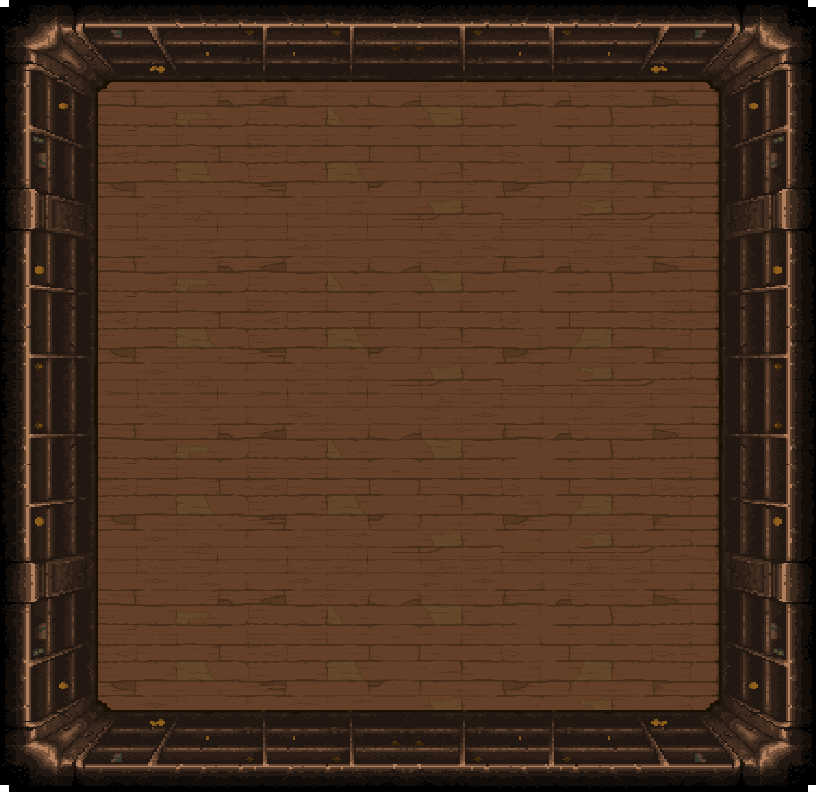
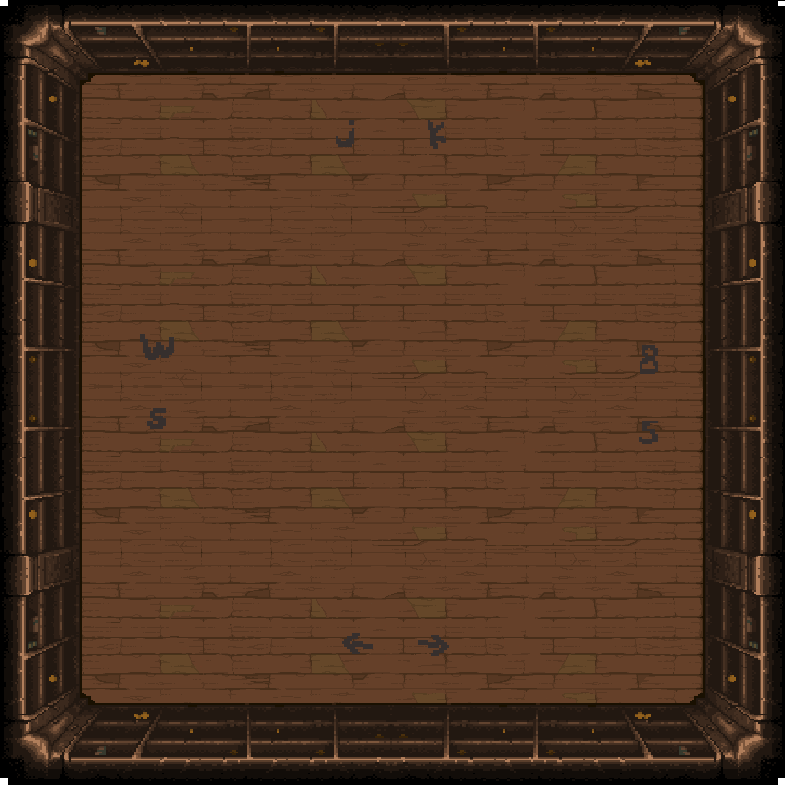
add : move button and design

diff --git a/frontend/src/routes/pong/multiplayer/game/script.js b/frontend/src/routes/pong/multiplayer/game/script.js
@@ -10,6 +10,9 @@ const backgroundCtx = backgroundCanvas.getContext("2d");
 const lifeCanvas = document.getElementById("lifeCanvas");
 const lifeCanvasCtx = lifeCanvas.getContext("2d");
 
+const ballImage = new Image();
+ballImage.src = '../../../../static/assets/multi/bullet.png';
+
 function drawBackground() {
     backgroundCtx.fillRect(0, 0, backgroundCanvas.width, backgroundCanvas.height);
 
@@ -23,12 +26,12 @@ function drawBackground() {
 function updateScoreCanvas() {
 	lifeCanvasCtx.clearRect(0, 0, lifeCanvas.width, lifeCanvas.height);
 
-	lifeCanvasCtx.font = "20px Arial";
+	lifeCanvasCtx.font = "20px arial";
 	lifeCanvasCtx.fillStyle = "#fff"; 
-	lifeCanvasCtx.fillText(`${player1Score}/5`, 20, lifeCanvas.height/2); 
-	lifeCanvasCtx.fillText(`${player2Score}/5`, lifeCanvas.width - 45, lifeCanvas.height/2); 
-	lifeCanvasCtx.fillText(`${player3Score}/5`, lifeCanvas.width / 2, lifeCanvas.height - 40); 
-	lifeCanvasCtx.fillText(`${player4Score}/5`,  lifeCanvas.width / 2 - 15,   60); 
+	lifeCanvasCtx.fillText(`${player1Score}/5`, 20, lifeCanvas.height/2); //gauche
+	lifeCanvasCtx.fillText(`${player2Score}/5`,  lifeCanvas.width / 2 - 15, 60); //top 
+	lifeCanvasCtx.fillText(`${player3Score}/5`, lifeCanvas.width / 2 - 15, lifeCanvas.height - 40);  //bas
+	lifeCanvasCtx.fillText(`${player4Score}/5`,  lifeCanvas.width - 60,   lifeCanvas.height/2	);
 
 }
 
@@ -144,18 +147,20 @@ function draw() {
 	ctx.fillRect(paddle3X, canvas.height - paddleWidth - 5, paddleHeight, paddleWidth);
 	ctx.fillRect(canvas.height - paddleWidth - 5, paddle4Y, paddleWidth, paddleHeight);
 
-	ctx.beginPath();
-	ctx.arc(ballX, ballY, ballRadius, 0, Math.PI * 2);
-	ctx.fillStyle = 'red';
-	ctx.fill();
-	ctx.closePath();
+	// ctx.beginPath();
+	// ctx.arc(ballX, ballY, ballRadius, 0, Math.PI * 2);
+	// ctx.fillStyle = 'red';
+	// ctx.fill();
+	// ctx.closePath();
 
-	// ctx.font = '20px Arial';
-	// backgroundCtx.font = '20px Arial'
-	// backgroundCtx.fillText(`${player1Score}/5`, 5, 5);
-	// ctx.fillText(`${player2}: ${player2Score}`, canvas.width - 200, 20);
-	// ctx.fillText(`${player3}: ${player3Score}`, 20, 40);
-	// ctx.fillText(`${player4}: ${player4Score}`, canvas.width - 200, 40);
+    ctx.drawImage(
+        ballImage,
+        ballX,
+        ballY,
+        ballRadius * 2,
+        ballRadius * 2
+    );
+
 }
 
 function ballReset() {
@@ -198,6 +203,7 @@ function updateScore() {
 	if (player1Score >= 5 || player2Score >= 5 || player3Score >= 5 || player4Score >= 5) {
 		game_ended = true;
 		customalert('Game Over', lastTouch + ' wins!');
+		closeButton();
 	}
 
 	lastTouch = null;
@@ -338,6 +344,22 @@ function gameLoop() {
 		document.removeEventListener('keydown', handleKeydown);
 		document.removeEventListener('keyup', handleKeyup);
 	}
+}
+
+function closeButton()
+{
+	console.log("game close function");
+	const buttonDiv = document.createElement('div');
+	buttonDiv.className = 'return-menu'; 
+	buttonDiv.innerHTML =  `<input id="button-return" type="button" value="Return to menu" data-link>
+	`;
+	const parentDiv = document.getElementById("game-canvas");
+	
+	parentDiv.appendChild(buttonDiv)
+	document.getElementById('button-return').addEventListener('click', function() {
+        router.navigate('/multiplayer');
+    });
+
 }
 
 export async function initComponent() {

diff --git a/frontend/src/routes/pong/multiplayer/game/style.scss b/frontend/src/routes/pong/multiplayer/game/style.scss
@@ -10,6 +10,8 @@ canvas {
     font-family: isaac-bold;
     src: url('../../../assets/font/isaac_bold.ttf') format('truetype');
 }
+@import url('https://fonts.googleapis.com/css2?family=Jersey+10&display=swap');
+
 #background-image {
     position: fixed; 
     top: 0;
@@ -31,7 +33,7 @@ canvas {
 	justify-content: center;
 	align-items: center;
 	#game-canvas {
-		margin-top: 50px;
+		margin-top: 40px;
 		height: 765px;
 		width: 800px;
 		position: relative;
@@ -62,7 +64,7 @@ canvas {
 			}
 
 			&.bottom-name {
-				bottom: -30px; 
+				bottom: -50px; 
 				left: 50%;
 				transform: translateX(-50%);
 			}
@@ -74,7 +76,7 @@ canvas {
 			}
 
 			&.right-name {
-				right: -50px;
+				right: -60px;
 				top: 50%;
 				transform: translateY(-50%) rotate(90deg); 
 			}
@@ -90,7 +92,7 @@ canvas {
 				position: absolute;
 				font-family: isaac-bold;
 				font-size: 0.8rem;
-				background-image: url(../../../static/assets/sheets/Button.png);
+				background-image: url(../../../../static/assets/sheets/Button.png);
 				width: 150px;
 				height: 60px;
 				background-size: contain;

diff --git a/frontend/src/routes/pong/multiplayer/game/style.css b/frontend/src/routes/pong/multiplayer/game/style.css
@@ -1,3 +1,4 @@
+@import url("https://fonts.googleapis.com/css2?family=Jersey+10&display=swap");
 body {
   text-align: center;
 }
@@ -35,7 +36,7 @@ canvas {
   align-items: center;
 }
 #container #game-canvas {
-  margin-top: 50px;
+  margin-top: 40px;
   height: 765px;
   width: 800px;
   position: relative;
@@ -67,7 +68,7 @@ canvas {
   transform: translateX(-50%);
 }
 #container #game-canvas .name.bottom-name {
-  bottom: -30px;
+  bottom: -50px;
   left: 50%;
   transform: translateX(-50%);
 }
@@ -77,7 +78,7 @@ canvas {
   transform: translateY(-50%) rotate(-90deg);
 }
 #container #game-canvas .name.right-name {
-  right: -50px;
+  right: -60px;
   top: 50%;
   transform: translateY(-50%) rotate(90deg);
 }
@@ -93,7 +94,7 @@ canvas {
   position: absolute;
   font-family: isaac-bold;
   font-size: 0.8rem;
-  background-image: url(../../../static/assets/sheets/Button.png);
+  background-image: url(../../../../static/assets/sheets/Button.png);
   width: 150px;
   height: 60px;
   background-size: contain;

diff --git a/frontend/src/routes/pong/multiplayer/game/page.html b/frontend/src/routes/pong/multiplayer/game/page.html
@@ -1,8 +1,8 @@
 <div id="background-image"></div>
 <div id="container">
 	<div id="game-canvas">
-		<canvas id="backgroundCanvas" width="800" height="765"></canvas>
-		<canvas id="lifeCanvas" width="800" height="765"></canvas>
+		<canvas id="backgroundCanvas" width="785" height="785"></canvas>
+		<canvas id="lifeCanvas" width="785" height="785"></canvas>
 		<canvas id="pongCanvas" width="600" height="600"></canvas>
 		<div class="name top-name">Top Name</div>
 		<div class="name bottom-name">Bottom Name</div>

diff --git a/frontend/src/routes/pong/multiplayer/style.css b/frontend/src/routes/pong/multiplayer/style.css
@@ -18,7 +18,7 @@
 #container {
 	font-family: isaac-bold;
     position: relative;
-    left:30%;
+    left:35%;
     background-image: url("../../../static/assets/multi/sheet.png");
     background-size: contain;
     background-position: center;
